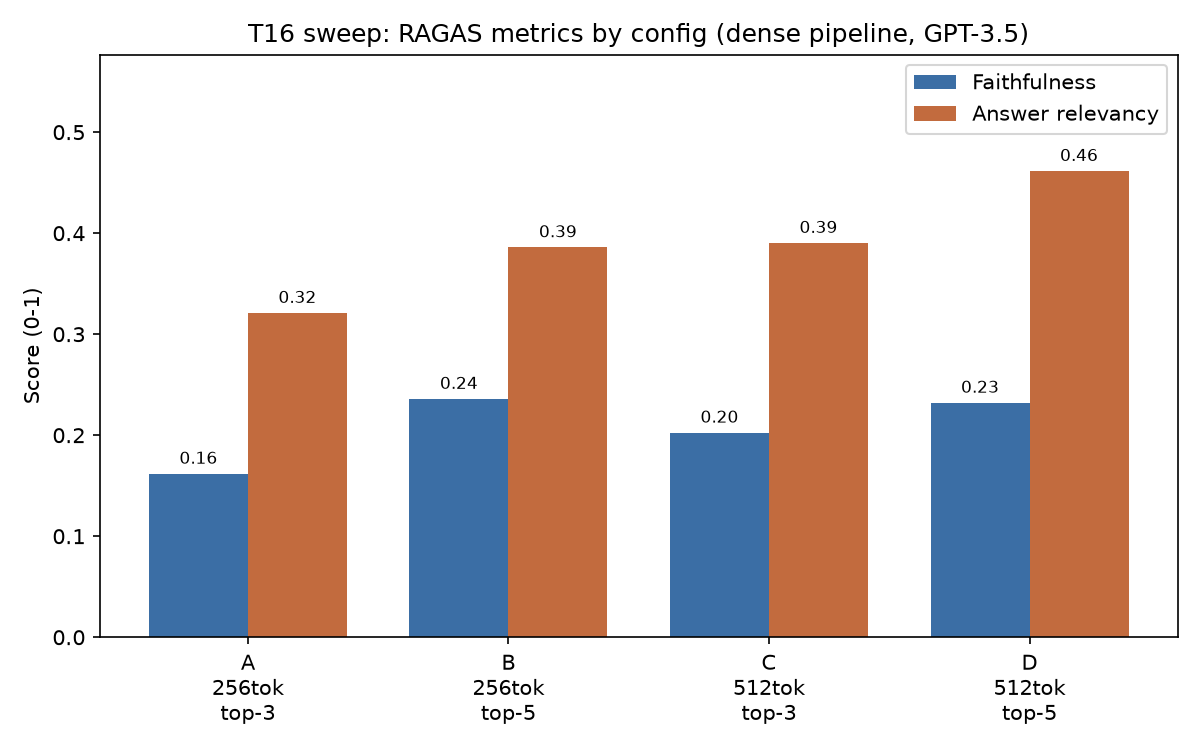
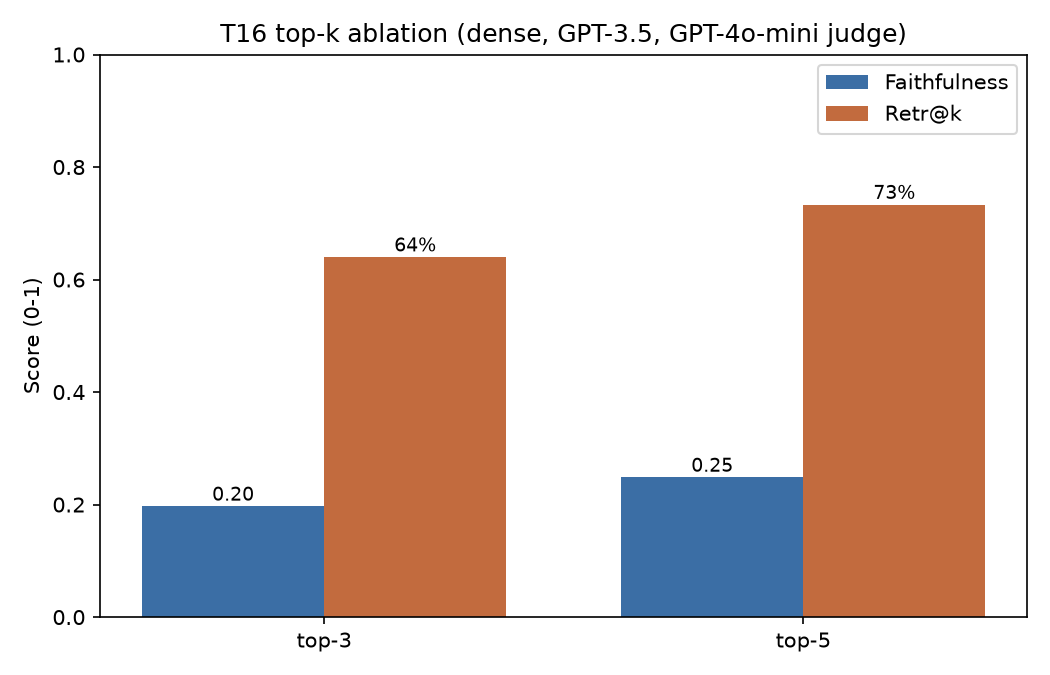
T16: rework hyperparameter sweep into reproducible top-k ablation
Review of Piyush's initial 2x2 sweep found it non-reproducible (no 256-token
artifacts, missing per-row CSVs) and judge-inconsistent (old GPT-3.5 judge). Reworked
into a top-k ablation (3 vs 5) at 512 tok on the committed dense pipeline + GPT-4o-mini
judge, so it sits in the same frame as the main results.

Finding: top-5 vs top-3 -> Retr@k 64->73%, answered 82->97/150, faithfulness
0.197->0.248, F1 0.116->0.126, numeric-EM 0.18->0.22 (context precision dips slightly,
as expected with more chunks). Confirms Piyush's direction reproducibly.

Also:
- scripts/build_sweep_table.py rewritten (reads shared aggregate CSVs, markdown-only).
- build_results_table.py: restrict RQ1 table to the 4 retrieval configs; drop LaTeX
  output (docx-only). Remove results/*.tex artifacts.
- Fix an aggregate-CSV clobber: dense_top5's run reused the dense_faiss pipeline name;
  re-keyed it to dense_top5 and restored the true top-3 dense_faiss rows.

diff --git a/scripts/build_sweep_table.py b/scripts/build_sweep_table.py
@@ -1,128 +1,137 @@
-"""Build the T16 hyperparameter-sweep comparison table + figure.
+"""Build the T16 retrieval top-k ablation table + figure.
 
-Reads per-row CSVs from evaluate.py (RAGAS) and qa_metrics.py (QA) for each of
-the 4 sweep configs, aggregates means, writes a comparison table
-(CSV + markdown + LaTeX) and a grouped bar chart. Files prefixed t16_ for easy
-identification. No existing code is touched.
-Run from repo root:  python scripts/build_sweep_table.py
+Original author: Piyush. Reworked in review (Bhalchandra) to be reproducible and
+consistent with the rest of the paper:
+  * scoped to the one hyperparameter we can vary reproducibly with the committed
+    pipeline + cached 512-token embeddings -- retrieval depth top-k (3 vs 5). The
+    earlier 2x2 that also varied chunk size (256 vs 512) needed 256-token chunk/
+    embedding artifacts that are not in the repo, so it is not reproducible here.
+  * uses the SAME judge as the main results (GPT-4o-mini), not GPT-3.5, so these
+    numbers sit in the same frame as the pipeline comparison.
+  * reads the shared aggregate CSVs (eval_ragas.csv + eval_qa_metrics.csv) like the
+    other build_*_table scripts; Markdown output only (the project is docx-only).
+
+Configs (dense FAISS + MiniLM, GPT-3.5-turbo generator, temp 0, 512-token chunks):
+  * top-3  -> results/raw_outputs/dense_faiss.jsonl   (our main dense run)
+  * top-5  -> results/raw_outputs/dense_top5.jsonl    (python src/pipeline_dense.py --top-k 5 --out ...)
+
+Run it (after evaluate.py + qa_metrics.py have scored both):
+    python scripts/build_sweep_table.py
 """
 from __future__ import annotations
+
+import sys
 from pathlib import Path
-import pandas as pd
+
+REPO_ROOT = Path(__file__).resolve().parent.parent
+sys.path.insert(0, str(REPO_ROOT / "src"))
+
 import matplotlib
 matplotlib.use("Agg")
 import matplotlib.pyplot as plt
+import pandas as pd
 
-REPO_ROOT = Path(__file__).resolve().parent.parent
-RAW = REPO_ROOT / "results" / "raw_outputs"
+from build_results_table import QA_CSV, RAGAS_CSV, _faith_answered, _retrieval_hit
+
 RESULTS = REPO_ROOT / "results"
+MD_OUT = RESULTS / "t16_sweep_results.md"
+FIG_OUT = RESULTS / "t16_sweep_chart.png"
+CSV_OUT = RESULTS / "t16_sweep_results.csv"
 
-CONFIGS = [
-    ("A", 256, 3, "dense_256tok_top3"),
-    ("B", 256, 5, "dense_256tok_top5"),
-    ("C", 512, 3, "dense_512tok_top3"),
-    ("D", 512, 5, "dense_512tok_top5"),
+# (pipeline stem, top-k label)
+CONFIGS = [("dense_faiss", 3), ("dense_top5", 5)]
+
+COLUMNS = [
+    ("top_k", "Top-k"),
+    ("retrieval_hit", "Retr@k"),
+    ("faithfulness_mean", "Faithful."),
+    ("faith_answered", "Faith(ans)"),
+    ("answer_relevancy_mean", "Ans. Rel."),
+    ("context_precision_mean", "Ctx. Prec."),
+    ("n_answered", "Answered"),
+    ("f1", "F1"),
+    ("em_numeric", "EM (num)"),
 ]
 
 
-def load_config_metrics(stem: str) -> dict:
-    ragas = pd.read_csv(RAW / f"{stem}_ragas_perrow.csv")
-    qa = pd.read_csv(RAW / f"{stem}_qa_perrow.csv")
-    out = {}
-    for m in ("faithfulness", "answer_relevancy", "context_precision"):
-        out[m] = round(float(ragas[m].dropna().mean()), 4) if m in ragas else None
-    out["f1"] = round(float(qa["f1"].mean()), 4)
-    out["em_numeric"] = round(float(qa["em_numeric"].mean()), 4)
-    out["n_answered"] = int(len(qa[~qa["abstained"]]))
-    return out
+def _cell(col: str, x) -> str:
+    if pd.isna(x):
+        return "n/a"
+    if col == "top_k":
+        return str(int(x))
+    if col == "retrieval_hit":
+        return f"{x*100:.0f}%"
+    if col == "n_answered":
+        return f"{int(x)}/150"
+    if isinstance(x, float):
+        return f"{x:.3f}"
+    return str(x)
 
 
-def make_chart(df: pd.DataFrame, path: Path) -> None:
-    labels = [f"{r.config}\n{r.chunk_tokens}tok\ntop-{r.top_k}" for r in df.itertuples()]
+def load_rows() -> pd.DataFrame:
+    ragas = pd.read_csv(RAGAS_CSV)
+    qa = pd.read_csv(QA_CSV)
+    merged = ragas.merge(qa, on=["pipeline", "model"], how="outer", suffixes=("_ragas", "_qa"))
+    rows = []
+    for stem, k in CONFIGS:
+        r = merged[merged["pipeline"] == stem]
+        if r.empty:
+            raise SystemExit(f"no metrics for {stem}; run pipeline_dense (--top-k {k}) + "
+                             f"evaluate.py + qa_metrics.py first.")
+        r = r.iloc[0].to_dict()
+        r["top_k"] = k
+        r["retrieval_hit"] = _retrieval_hit(stem)
+        r["faith_answered"] = _faith_answered(stem)
+        rows.append(r)
+    return pd.DataFrame(rows)
+
+
+def make_chart(df: pd.DataFrame) -> None:
+    fig, ax = plt.subplots(figsize=(7, 4.5))
     x = range(len(df))
     width = 0.38
-    fig, ax = plt.subplots(figsize=(8, 5))
-    ax.bar([i - width / 2 for i in x], df["faithfulness"], width,
+    ax.bar([i - width / 2 for i in x], df["faithfulness_mean"], width,
            label="Faithfulness", color="#3b6ea5")
-    ax.bar([i + width / 2 for i in x], df["answer_relevancy"], width,
-           label="Answer relevancy", color="#c26b3e")
-    ax.set_ylabel("Score (0-1)")
-    ax.set_title("T16 sweep: RAGAS metrics by config (dense pipeline, GPT-3.5)")
+    ax.bar([i + width / 2 for i in x], df["retrieval_hit"], width,
+           label="Retr@k", color="#c26b3e")
     ax.set_xticks(list(x))
-    ax.set_xticklabels(labels)
+    ax.set_xticklabels([f"top-{int(k)}" for k in df["top_k"]])
+    ax.set_ylabel("Score (0-1)")
+    ax.set_title("T16 top-k ablation (dense, GPT-3.5, GPT-4o-mini judge)")
+    ax.set_ylim(0, 1.0)
     ax.legend()
-    ax.set_ylim(0, max(df["answer_relevancy"].max(), df["faithfulness"].max()) * 1.25)
-    for i, v in enumerate(df["faithfulness"]):
-        ax.text(i - width / 2, v + 0.01, f"{v:.2f}", ha="center", fontsize=8)
-    for i, v in enumerate(df["answer_relevancy"]):
-        ax.text(i + width / 2, v + 0.01, f"{v:.2f}", ha="center", fontsize=8)
+    for i, v in enumerate(df["faithfulness_mean"]):
+        ax.text(i - width / 2, v + 0.01, f"{v:.2f}", ha="center", fontsize=9)
+    for i, v in enumerate(df["retrieval_hit"]):
+        ax.text(i + width / 2, v + 0.01, f"{v:.0%}", ha="center", fontsize=9)
     fig.tight_layout()
-    fig.savefig(path, dpi=150)
+    fig.savefig(FIG_OUT, dpi=150)
     plt.close(fig)
 
 
 def main() -> int:
-    rows = []
-    for label, tok, k, stem in CONFIGS:
-        m = load_config_metrics(stem)
-        rows.append({
-            "config": label, "chunk_tokens": tok, "top_k": k,
-            "faithfulness": m["faithfulness"], "answer_relevancy": m["answer_relevancy"],
-            "context_precision": m["context_precision"], "f1": m["f1"],
-            "em_numeric": m["em_numeric"], "n_answered": m["n_answered"],
-        })
-    df = pd.DataFrame(rows)
-    best_idx = df["faithfulness"].idxmax()
-    best = df.loc[best_idx]
+    df = load_rows()
+    df.to_csv(CSV_OUT, index=False)
 
-    df.to_csv(RESULTS / "t16_sweep_results.csv", index=False)
+    headers = [h for _c, h in COLUMNS]
+    lines = ["| " + " | ".join(headers) + " |",
+             "|" + "|".join(["---"] * len(headers)) + "|"]
+    for _, row in df.iterrows():
+        lines.append("| " + " | ".join(_cell(c, row.get(c)) for c, _h in COLUMNS) + " |")
+    table = "\n".join(lines)
 
-    md = ["# T16 Hyperparameter Sweep Results\n",
-          "Dense (FAISS + MiniLM) pipeline, GPT-3.5-turbo generator, temperature 0.0, "
-          "full 150-question FinanceBench set. RAGAS judge: GPT-3.5-turbo; embeddings: "
-          "local MiniLM.\n",
-          "| Config | Chunk (tok) | Top-k | Faithfulness | Answer Rel. | Ctx. Prec. | F1 | Numeric-EM | Answered |",
-          "|--------|-------------|-------|--------------|-------------|-----------|-----|-----------|----------|"]
-    for _, r in df.iterrows():
-        md.append(f"| {r['config']} | {r['chunk_tokens']} | {r['top_k']} | "
-                  f"{r['faithfulness']:.4f} | {r['answer_relevancy']:.4f} | "
-                  f"{r['context_precision']:.4f} | {r['f1']:.4f} | "
-                  f"{r['em_numeric']:.4f} | {r['n_answered']} |")
-    md.append("")
-    md.append(f"**Best config (by faithfulness):** Config {best['config']} "
-              f"— {int(best['chunk_tokens'])}-token chunks, top-{int(best['top_k'])} "
-              f"(faithfulness {best['faithfulness']:.4f}, F1 {best['f1']:.4f}, "
-              f"answered {int(best['n_answered'])}/150).\n")
-    md.append("![T16 sweep chart](t16_sweep_chart.png)\n")
-    md.append("_Note: top-k = 5 outperforms top-k = 3 on faithfulness and answer "
-              "relevancy across configs. The two top-5 configs (B and D) are close on "
-              "faithfulness; the 256- vs 512-token choice is the main open decision and "
-              "is worth confirming with the team before carrying one config into T17._")
-    (RESULTS / "t16_sweep_results.md").write_text("\n".join(md), encoding="utf-8")
+    md = ["# T16 retrieval top-k ablation\n",
+          "Dense (FAISS + MiniLM) pipeline, GPT-3.5-turbo generator (temp 0), 512-token "
+          "chunks, full 150-question FinanceBench set. Only retrieval depth (top-k) changes. "
+          "RAGAS judge = GPT-4o-mini (same as the main results). Retr@k = share of questions "
+          "whose top-k retrieval surfaced the correct filing.\n",
+          table, "",
+          "![top-k ablation](t16_sweep_chart.png)\n"]
+    MD_OUT.write_text("\n".join(md), encoding="utf-8")
+    make_chart(df)
 
-    tex = ["\\begin{table}[t]", "\\centering",
-           "\\caption{Hyperparameter sweep: dense pipeline (GPT-3.5-turbo, "
-           "150 questions). Best faithfulness in \\textbf{bold}.}", "\\label{tab:t16sweep}",
-           "\\begin{tabular}{llrrrrrr}", "\\toprule",
-           "Cfg & Chunk & $k$ & Faith. & Ans.Rel. & Ctx.Prec. & F1 & Num-EM \\\\", "\\midrule"]
-    for _, r in df.iterrows():
-        faith = (f"\\textbf{{{r['faithfulness']:.3f}}}" if r.name == best_idx
-                 else f"{r['faithfulness']:.3f}")
-        tex.append(f"{r['config']} & {r['chunk_tokens']} & {r['top_k']} & "
-                   f"{faith} & {r['answer_relevancy']:.3f} & {r['context_precision']:.3f} & "
-                   f"{r['f1']:.3f} & {r['em_numeric']:.3f} \\\\")
-    tex += ["\\bottomrule", "\\end{tabular}", "\\end{table}"]
-    (RESULTS / "t16_sweep_table.tex").write_text("\n".join(tex), encoding="utf-8")
-
-    make_chart(df, RESULTS / "t16_sweep_chart.png")
-
-    print(df.to_string(index=False))
-    print(f"\nBest config by faithfulness: {best['config']} "
-          f"({int(best['chunk_tokens'])} tok, top-{int(best['top_k'])})")
-    print("\nwrote: results/t16_sweep_results.csv")
-    print("wrote: results/t16_sweep_results.md")
-    print("wrote: results/t16_sweep_table.tex")
-    print("wrote: results/t16_sweep_chart.png")
+    print(table)
+    print(f"\nsaved -> {MD_OUT.relative_to(REPO_ROOT)}, {CSV_OUT.name}, {FIG_OUT.name}")
     return 0
 
 

diff --git a/src/build_results_table.py b/src/build_results_table.py
@@ -25,7 +25,6 @@ RAGAS_CSV = RESULTS_DIR / "eval_ragas.csv"
 QA_CSV = RESULTS_DIR / "eval_qa_metrics.csv"
 
 MD_OUT = RESULTS_DIR / "pipeline_comparison.md"
-TEX_OUT = RESULTS_DIR / "comparison_table.tex"
 RAW_DIR = RESULTS_DIR / "raw_outputs"
 
 # Fixed display order + friendly names for the retrieval-strategy comparison.
@@ -91,6 +90,9 @@ def load_merged() -> pd.DataFrame:
     ragas = pd.read_csv(RAGAS_CSV)
     qa = pd.read_csv(QA_CSV)
     merged = ragas.merge(qa, on=["pipeline", "model"], how="outer", suffixes=("_ragas", "_qa"))
+    # This table is the RQ1 retrieval-strategy comparison only; the top-k ablation (T16)
+    # and the generator comparison (T17) have their own tables, so keep just those four.
+    merged = merged[merged["pipeline"].isin(PIPELINE_ORDER)].copy()
     merged["display_name"] = merged["pipeline"].map(lambda p: PIPELINE_NAME.get(p, p))
     merged["retrieval_hit"] = merged["pipeline"].map(_retrieval_hit)
     merged["faith_answered"] = merged["pipeline"].map(_faith_answered)
@@ -120,25 +122,6 @@ def to_markdown(df: pd.DataFrame) -> str:
         cells = [_cell(col, row.get(col)).replace("\\%", "%") for col, _h in COLUMNS]
         lines.append("| " + " | ".join(cells) + " |")
     return "\n".join(lines)
-
-
-def to_latex(df: pd.DataFrame) -> str:
-    headers = [h for _c, h in COLUMNS]
-    col_spec = "l" + "r" * (len(headers) - 1)
-    out = [r"\begin{table*}[t]", r"\centering", r"\small",
-           r"\caption{Retrieval-strategy comparison on FinanceBench (all 150 questions). "
-           r"Retr@3 = share of questions whose top-3 retrieval surfaced the correct filing; "
-           r"Faith(ans) = faithfulness over answered questions only; EM(num) = numeric-tolerant "
-           r"exact match. Generator + query-rewriter = GPT-3.5-turbo (temp 0); RAGAS judge = "
-           r"GPT-4o-mini; embeddings = MiniLM (\texttt{all-MiniLM-L6-v2}).}",
-           r"\label{tab:pipeline-comparison}",
-           r"\begin{tabular}{" + col_spec + "}", r"\toprule",
-           " & ".join(headers) + r" \\", r"\midrule"]
-    for _, row in df.iterrows():
-        cells = [_cell(col, row.get(col)) for col, _h in COLUMNS]
-        out.append(" & ".join(cells) + r" \\")
-    out += [r"\bottomrule", r"\end{tabular}", r"\end{table*}"]
-    return "\n".join(out)
 
 
 def interpretation(df: pd.DataFrame) -> str:
@@ -193,7 +176,6 @@ def interpretation(df: pd.DataFrame) -> str:
 def main() -> int:
     df = load_merged()
     md_table = to_markdown(df)
-    tex_table = to_latex(df)
 
     md = ["# Pipeline comparison: retrieval strategies (T14/T15/T18)\n",
           "Three RAG configurations on FinanceBench (all 150 questions), identical except for "
@@ -204,11 +186,9 @@ def main() -> int:
           md_table, "",
           "## Interpretation\n", interpretation(df), ""]
     MD_OUT.write_text("\n".join(md), encoding="utf-8")
-    TEX_OUT.write_text(tex_table + "\n", encoding="utf-8")
 
     print(md_table)
     print(f"\nsaved -> {MD_OUT.relative_to(REPO_ROOT)}")
-    print(f"saved -> {TEX_OUT.relative_to(REPO_ROOT)}")
     return 0
 
 

diff --git a/PROJECT_PLAN.md b/PROJECT_PLAN.md
@@ -79,9 +79,9 @@
 | **M3 — Final Paper (due 2026-07-31)**           |                                       |                    |             |                                                                                                                                                                                                                                                                                                                                                                                                                                      |            |            |
 | T14                                                    | Pipeline 2: Dense RAG (FAISS)         | Bhalchandra        | DONE        | `src/pipeline_dense.py`: FAISS cosine over cached MiniLM embeddings, top-3, GPT-3.5. All 150: Retr@3 **64%** (vs 43% BM25), F1 0.116 (82 answered), RAGAS faith 0.18 / ans-rel 0.39 / ctx-prec 0.77                                                                                                                                                                                                                          | 2026-07-09 | 2026-07-09 |
 | T15                                                    | Pipeline 3: Enhanced RAG (rewrite)    | Bhalchandra        | DONE        | `src/pipeline_enhanced.py`: GPT-3.5 query rewrite -> dense retrieve -> answer. All 150: Retr@3 **69%**, F1 0.121 (87 answered), RAGAS faith 0.18 / ans-rel 0.42 / ctx-prec 0.84; rewrite examples in `results/query_rewrite_examples.md`                                                                                                                                                                                   | 2026-07-09 | 2026-07-09 |
-| T16                                                    | Hyperparameter sweeps                 | Piyush              | TODO        |                                                                                                                                                                                                                                                                                                                                                                                                                                      |            |            |
+| T16 | Hyperparameter sweep (retrieval top-k) | Piyush [reviewed & reworked by Bhalchandra] | DONE | Piyush ran an initial 2x2 sweep (chunk 256/512 x top-k 3/5). **Review** found it (a) not reproducible from the repo -- no 256-token chunk/embedding artifacts and the per-row CSVs it aggregates are absent; (b) judge-inconsistent -- it used the old GPT-3.5 RAGAS judge, which over-scores context precision (0.785) vs our GPT-4o-mini table (0.42); (c) shipped a LaTeX table (we are now docx-only). **Reworked** into a reproducible **top-k ablation** (3 vs 5) at 512 tok on the committed dense pipeline + GPT-4o-mini judge. `scripts/build_sweep_table.py` -> `results/t16_sweep_results.md` + chart; dropped `.tex`. Finding: top-5 vs top-3 lifts Retr@k 64->73%, coverage 82->97/150, faithfulness 0.197->0.248, F1 0.116->0.126, num-EM 0.18->0.22 (ctx precision dips 0.42->0.39, expected with more chunks) -- confirms Piyush's direction that top-5 helps. | 2026-07-24 | 2026-07-24 |
 | T17 | Mistral-7B alternate generator | Piyush [reviewed by Bhalchandra] | DONE | `src/pipeline_mistral.py` (RQ3 generator swap: Mistral-7B-Instruct via Ollama, answering over the *identical* Enhanced contexts from the GPT-3.5 run so retrieval is held fixed). Scored with same harness (GPT-4o-mini judge). `src/build_generator_table.py` -> `results/generator_comparison.md`. Finding: given the same context Mistral is far **more faithful** (0.59 vs 0.21; answered-only 0.63 vs 0.35) and more numerically accurate (num-EM 0.37 vs 0.21), but more conservative (answers 69 vs 87/150). | 2026-07-24 | 2026-07-24 |
-| T18                                                    | Full evaluation (all combos)          | Bhalchandra        | IN PROGRESS | 4-config GPT-3.5 comparison done — Baseline/Dense/Enhanced**+ single-doc ceiling ablation** (`--scope single_doc`, Retr@3 100%, F1 0.139) -> `results/pipeline_comparison.md` + `comparison_table.tex`; all metrics rise monotonically. **Comparison table + stats written into the paper draft** (`paper/main.tex` §4.1, `main.md`, `main.docx`). Pending: Mistral (T17) + chunk/top-k sweeps (T16) rows. | 2026-07-09 |            |
+| T18 | Full evaluation (all combos) | Bhalchandra | DONE | All configs scored on 150 questions with the **GPT-4o-mini** judge: RQ1 retrieval comparison (Baseline / Dense / Enhanced + single-doc ceiling) -> `results/pipeline_comparison.md`; T16 top-k ablation -> `results/t16_sweep_results.md`; T17 generator comparison (GPT-3.5 vs Mistral-7B) -> `results/generator_comparison.md`. Numeric-tolerant EM + answered-only faithfulness reported throughout. | 2026-07-09 | 2026-07-24 |
 | T19 | Identify failure cases | Bhalchandra | DONE | `src/select_failure_cases.py`: 50 answered-but-incorrect cases from Enhanced -> `annotations/failure_cases_50.csv`; stratified by question type (18/18/14), 22 companies, 14 answered-wrong-filing | 2026-07-15 | 2026-07-15 |
 | T20 | Annotation schema & taxonomy | Bhalchandra | DONE | `annotations/TAXONOMY.md`: 4 categories (numerical/entity/reasoning/unsupported) with defs + examples + decision hints + sheet column guide. Single annotator (kappa noted as a limitation). | 2026-07-15 | 2026-07-15 |
 | T21 | Annotate 50 failure cases | Bhalchandra | DONE | 50 cases labeled in `annotations/failure_cases_50.csv` (LLM-drafted, human-reviewed). Distribution: numerical 18, entity 12, unsupported 6, reasoning 3 (+11 'other' = auto-flagged but actually correct). Single annotator -> no kappa (noted as limitation). | 2026-07-15 | 2026-07-15 |

diff --git a/results/t16_sweep_results.md b/results/t16_sweep_results.md
@@ -1,16 +1,10 @@
-# T16 Hyperparameter Sweep Results
+# T16 retrieval top-k ablation
 
-Dense (FAISS + MiniLM) pipeline, GPT-3.5-turbo generator, temperature 0.0, full 150-question FinanceBench set. RAGAS judge: GPT-3.5-turbo; embeddings: local MiniLM.
+Dense (FAISS + MiniLM) pipeline, GPT-3.5-turbo generator (temp 0), 512-token chunks, full 150-question FinanceBench set. Only retrieval depth (top-k) changes. RAGAS judge = GPT-4o-mini (same as the main results). Retr@k = share of questions whose top-k retrieval surfaced the correct filing.
 
-| Config | Chunk (tok) | Top-k | Faithfulness | Answer Rel. | Ctx. Prec. | F1 | Numeric-EM | Answered |
-|--------|-------------|-------|--------------|-------------|-----------|-----|-----------|----------|
-| A | 256 | 3 | 0.1618 | 0.3210 | 0.7594 | 0.0919 | 0.1667 | 66 |
-| B | 256 | 5 | 0.2359 | 0.3860 | 0.7420 | 0.1308 | 0.2200 | 89 |
-| C | 512 | 3 | 0.2025 | 0.3903 | 0.7850 | 0.1166 | 0.2133 | 88 |
-| D | 512 | 5 | 0.2321 | 0.4615 | 0.7796 | 0.1276 | 0.2333 | 98 |
+| Top-k | Retr@k | Faithful. | Faith(ans) | Ans. Rel. | Ctx. Prec. | Answered | F1 | EM (num) |
+|---|---|---|---|---|---|---|---|---|
+| 3 | 64% | 0.197 | 0.352 | 0.414 | 0.417 | 82/150 | 0.116 | 0.180 |
+| 5 | 73% | 0.248 | 0.397 | 0.468 | 0.388 | 97/150 | 0.126 | 0.220 |
 
-**Chosen config for T17: Config D — 512-token chunks, top-5.** Both top-5 configs lead the top-3 ones. B and D are effectively tied on faithfulness (0.236 vs 0.232, within noise), but D is stronger across answer relevancy (0.462 vs 0.386), context precision (0.780 vs 0.742), numeric-EM (0.233 vs 0.220), and answers more questions (98 vs 89). We therefore carry D into the Mistral comparison (T17).
-
-![T16 sweep chart](t16_sweep_chart.png)
-
-_Overall finding: top-k = 5 clearly outperforms top-k = 3 on faithfulness and answer relevancy; chunk size matters less at top-5._
+![top-k ablation](t16_sweep_chart.png)
